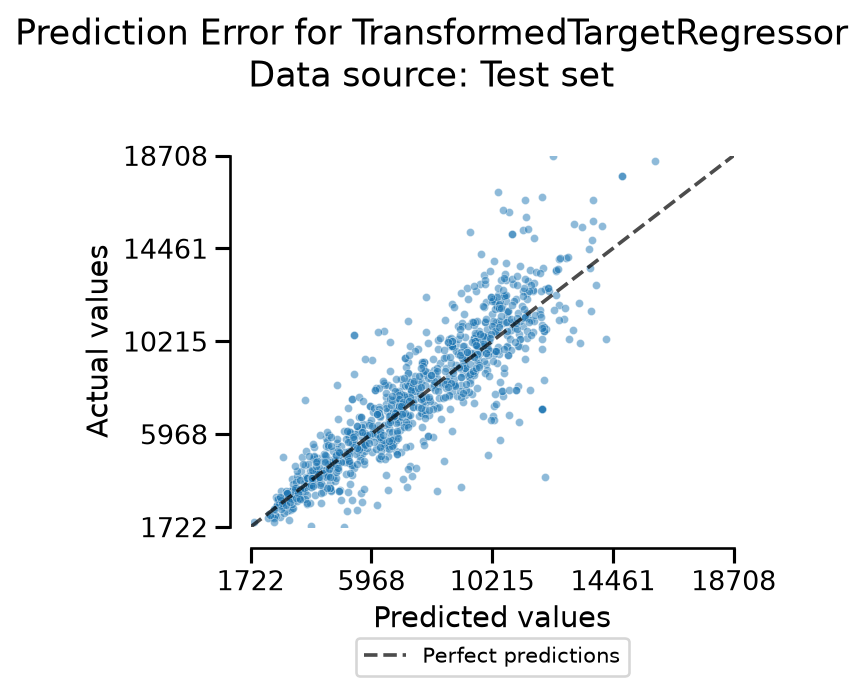
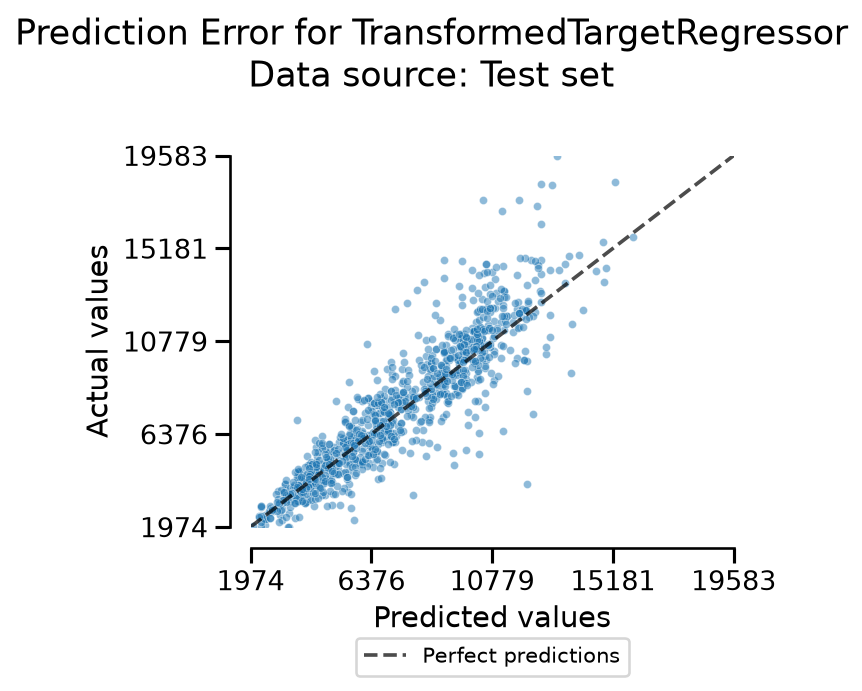
Feature : Architecture complète du projet

diff --git a/main.py b/main.py
@@ -12,7 +12,6 @@ import geopandas as gpd
 import matplotlib.pyplot as plt
 import numpy as np
 import pandas as pd
-import requests
 import seaborn as sns
 from dotenv import load_dotenv
 from lightgbm import LGBMRegressor
@@ -24,6 +23,8 @@ from sklearn.model_selection import train_test_split
 from sklearn.pipeline import Pipeline
 from sklearn.preprocessing import FunctionTransformer, OrdinalEncoder
 from skore import EstimatorReport
+
+from import_data import download_sources, get_melodi_indicator
 
 load_dotenv()
 
@@ -69,14 +70,6 @@ SOURCES = {
 }
 
 con = duckdb.connect(database=":memory:")
-
-
-def download_sources(url_fichier, cible):
-    """Download url_fichier and write it to cible"""
-    r = requests.get(url_fichier, timeout=120)
-    r.raise_for_status()
-    with open(cible, "wb") as f:
-        f.write(r.content)
 
 
 # DATA IMPORT ---------------------------------------
@@ -189,44 +182,6 @@ dvf = dvf.sjoin(filo, how="left", predicate="within")
 # Filosofi municipality-level data (Melodi API)
 # DVF codes Paris by arrondissement (75101 to 75120), not as one municipality
 # (75056): without the ARM level, Paris sales would get no municipality data.
-
-
-def get_melodi_indicator(
-    code: str,
-    value_name: str,
-    API: str = JETON_API,
-    dataset: str = "DS_FILOSOFI_CC",
-    dimension: str = "FILOSOFI_MEASURE",
-    time_period: int = 2023,
-    geo_level: list = None,
-) -> pd.DataFrame:
-    if geo_level == None:
-        geo_level = ["COM", "ARM"]
-
-    url = f"https://api.insee.fr/melodi/data/{dataset}"
-
-    params = {
-        "GEO": geo_level,
-        dimension: code,
-        "TIME_PERIOD": time_period,
-        "maxResult": 40000,
-    }
-
-    headers = {"Authorization": f"Bearer {JETON_API}"}
-
-    response = requests.get(url, params=params, headers=headers, timeout=60)
-    response.raise_for_status()
-    observations = response.json()["observations"]
-
-    df = pd.DataFrame(
-        {
-            "CODGEO": obs["dimensions"]["GEO"].split("-")[-1],
-            value_name: obs["measures"]["OBS_VALUE_NIVEAU"].get("value"),
-        }
-        for obs in observations
-    )
-
-    return df
 
 
 niveau_vie = get_melodi_indicator("MED_SL", "NIVVIE_MEDIAN")

diff --git a/import_data.py b/import_data.py
@@ -1,1 +1,57 @@
 """ Module that imports the data """
+
+import os
+
+import pandas as pd
+import requests
+from dotenv import load_dotenv
+
+load_dotenv()
+
+JETON_API = os.environ["JETON_API"]
+
+
+def download_sources(url_fichier, cible):
+    """Download url_fichier and write it to cible"""
+    r = requests.get(url_fichier, timeout=120)
+    r.raise_for_status()
+    with open(cible, "wb") as f:
+        f.write(r.content)
+
+
+def get_melodi_indicator(
+    code: str,
+    value_name: str,
+    API: str = JETON_API,
+    dataset: str = "DS_FILOSOFI_CC",
+    dimension: str = "FILOSOFI_MEASURE",
+    time_period: int = 2023,
+    geo_level: list = None,
+) -> pd.DataFrame:
+    if geo_level == None:
+        geo_level = ["COM", "ARM"]
+
+    url = f"https://api.insee.fr/melodi/data/{dataset}"
+
+    params = {
+        "GEO": geo_level,
+        dimension: code,
+        "TIME_PERIOD": time_period,
+        "maxResult": 40000,
+    }
+
+    headers = {"Authorization": f"Bearer {JETON_API}"}
+
+    response = requests.get(url, params=params, headers=headers, timeout=60)
+    response.raise_for_status()
+    observations = response.json()["observations"]
+
+    df = pd.DataFrame(
+        {
+            "CODGEO": obs["dimensions"]["GEO"].split("-")[-1],
+            value_name: obs["measures"]["OBS_VALUE_NIVEAU"].get("value"),
+        }
+        for obs in observations
+    )
+
+    return df

diff --git a/model.py b/model.py
@@ -1,0 +1,1 @@
+""" Module for pipeline construction """

diff --git a/evaluation.py b/evaluation.py
@@ -1,0 +1,1 @@
+""" Module for model evaluation """

diff --git a/features.py b/features.py
@@ -1,0 +1,1 @@
+""" Build features function """
